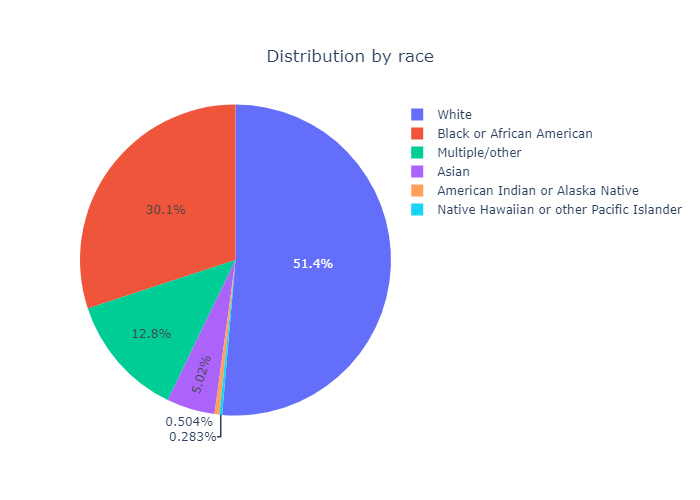
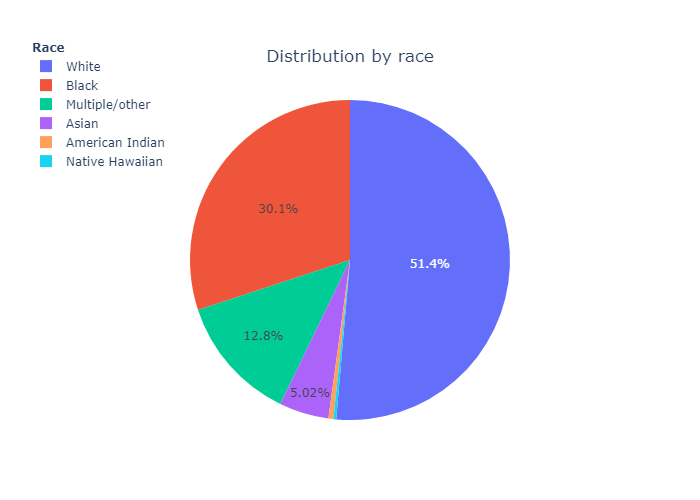
unify title/legends format, add recovered as negative value in stacked bar chart

diff --git a/templates/index.html b/templates/index.html
@@ -23,10 +23,10 @@
         Today is {{month}} {{day}}, {{year}}.
     </h1>
     <h2>
-        Total Cases: {{cases}}, total deaths: {{deaths}}
+        Total Cases: {{cases}}, total deaths: {{deaths}}.
     </h2>
     <img src='../static/acc_new.png' alt='accumulated and new cases by date'>
-    <img src='../static/state_pie.png' alt='national distribution'>
+    <img src='../static/states.png' alt='national distribution'>
     <img src='../static/age.png' alt='distribution by age'>
     <img src='../static/race.png' alt='distribution by race'>
 
@@ -63,9 +63,9 @@
             How many regions do you want to show:
             <input type="text" name='howmany' value='10' min='1' max='50'><br/>
         </p>
-        <input type='submit' value='Get Bars'/><br/>
+        <input type='submit' value='Get Results'/><br/>
     </form>
-
+                                                                                      
     <h3>
         Click state to view the details:
     </h3>

diff --git a/app.py b/app.py
@@ -32,6 +32,7 @@ DB_NAME = JHU_API.DB_NAME # built database is required
 region_list = JHU_API.read_regions()
 
 def get_history_data_by_state(state_nm):
+    '''Read a state's detail data from database'''
     if state_nm in region_list:
         q = f'''
         SELECT * FROM Counts 
@@ -47,23 +48,51 @@ def get_history_data_by_state(state_nm):
         return results
 
 def _todate(str):
-    '''change str to a date obj'''
+    '''a date str -> a date obj'''
     y,m,d = str.split('-')
     return datetime.date(year=int(y), month=int(m), day=int(d))
+
+def _sqldate(str):
+    ''' 2020-4-24 -> 2020-04-24 '''
+    y,m,d = str.split('-')
+    if len(m)<2:
+        m = '0'+m
+    return '-'.join([y,m,d])
 
 def plot_stacked_bar(cache):
     ''' Plot stacked bar figure'''
     tend = cache['date']
-    x_vals = [_todate(key) for key in tend.keys()] # dates
+    x_vals = [_todate(key) for key in tend.keys()] # label (date obj)
     y1_vals = [tend[key][0]-tend[key][1] for key in tend.keys()]
     y2_vals = [tend[key][1] for key in tend.keys()]
+    y3_vals = []
+
+    dates = [_sqldate(key) for key in tend.keys()] # dates to search in db
+    conn = sqlite3.connect(DB_NAME)
+    cur = conn.cursor()
+    q = '''
+        SELECT Recovered FROM Counts
+        WHERE RegionId = 137
+        AND Date = ?
+    '''
+    for d in dates:
+        result = cur.execute(q, [d]).fetchone()
+        print(result)
+        if result:
+            y3_vals.append(-int(result[0])) # negative value
+        else:
+            y3_vals.append(0)
+    conn.close()
+
     stacked_fig = go.Figure(
         data=[
             go.Bar(name='New cases', x=x_vals, y=y2_vals),
-            go.Bar(name='Accumulated cases', x=x_vals, y=y1_vals)
+            go.Bar(name='Accumulated cases', x=x_vals, y=y1_vals),
+            go.Bar(name='Accumulated recovered', x=x_vals, y=y3_vals)
         ]
     )
-    stacked_fig.update_layout(barmode='stack',  xaxis={'categoryorder': 'category ascending'},
+    stacked_fig.update_layout(barmode='relative',  xaxis={'categoryorder': 'category ascending'},
+    legend=dict(x=-.1, y=1.2),
     title={
         'text': "Covid19 in the U.S.",
         'y':0.9,
@@ -85,14 +114,16 @@ def plot_pie_charts(cache):
         data=[go.Pie(labels=labels, values=values)]
     )
     pie_fig.update_traces(textposition='inside')
-    pie_fig.update_layout(uniformtext_minsize=10, uniformtext_mode='hide',
+    pie_fig.update_layout(legend_title='<b> States </b>',
+        legend=dict(x=-.1, y=1.2),
+        uniformtext_minsize=10, uniformtext_mode='hide',
         title={
         'text': "Distribution by state",
         'y':0.9,
         'x':0.5,
         'xanchor': 'center',
         'yanchor': 'top'})
-    pie_fig.write_image('static/state_pie.png')
+    pie_fig.write_image('static/states.png')
 
     # distribution by age
     age = cache['age']
@@ -101,7 +132,10 @@ def plot_pie_charts(cache):
     pie_fig = go.Figure(
         data=[go.Pie(labels=labels, values=values)]
     )
-    pie_fig.update_layout(uniformtext_minsize=10, uniformtext_mode='hide', 
+    pie_fig.update_traces(textposition='inside')
+    pie_fig.update_layout(legend_title='<b> Age </b>',
+        legend=dict(x=-.1, y=1.2),
+        uniformtext_minsize=10, uniformtext_mode='hide', 
         title={
         'text': "Distribution by age",
         'y':0.9,
@@ -112,12 +146,15 @@ def plot_pie_charts(cache):
 
     # distribution by race
     race = cache['race']
-    labels = list(race.keys())
+    labels = [k.split('or')[0] for k in race.keys()]
     values = list(race.values())
     pie_fig = go.Figure(
         data=[go.Pie(labels=labels, values=values)]
     )
-    pie_fig.update_layout(uniformtext_minsize=10, uniformtext_mode='hide', 
+    pie_fig.update_traces(textposition='inside')
+    pie_fig.update_layout(legend_title='<b> Race </b>',
+        legend=dict(x=-.1, y=1.2),
+        uniformtext_minsize=10, uniformtext_mode='hide', 
         title={
         'text': "Distribution by race",
         'y':0.9,
@@ -148,6 +185,7 @@ def plot(state_nm, data):
     fig.write_image(f'static/{state_nm}1.png')
 
 def get_bars_by_rating(sortby, chosen_date, orderby, limit):
+    '''Read data with filters from database'''
     conn = sqlite3.connect(DB_NAME)
     cur = conn.cursor()
     q = f'''
